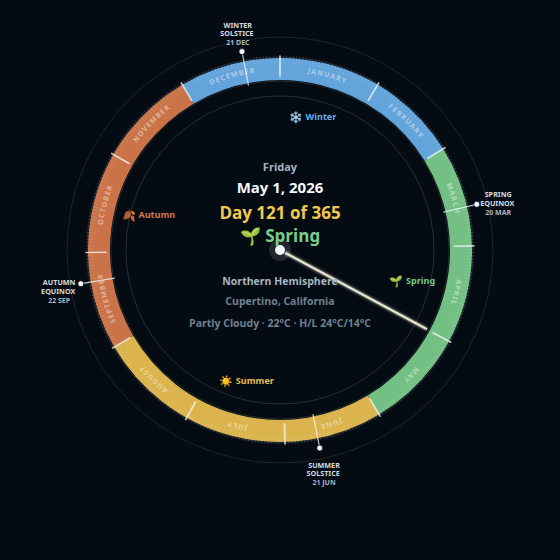
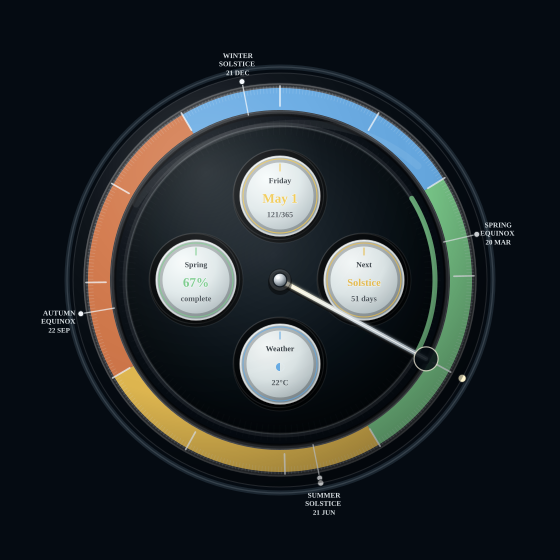
Prepare HACS release package

diff --git a/dist/season-clock-card.js b/dist/season-clock-card.js
@@ -9,7 +9,6 @@ var e = [
 	"show_month_names",
 	"show_month_markers",
 	"show_day_ticks",
-	"show_icons",
 	"show_moon_phase",
 	"show_weather"
 ], t = {
@@ -30,7 +29,6 @@ var e = [
 	show_month_names: !0,
 	show_month_markers: !0,
 	show_day_ticks: !0,
-	show_icons: !0,
 	show_moon_phase: !0,
 	show_weather: !0
 }, n = [
@@ -157,14 +155,13 @@ var e = [
 			show_month_names: "Month names",
 			show_month_markers: "Month markers",
 			show_day_ticks: "Day ticks",
-			show_icons: "Icons",
 			show_moon_phase: "Moon phase",
 			show_weather: "Weather",
 			weather_entity: "Weather entity"
 		}[e.name] || e.name?.replaceAll("_", " ") || "";
 	}
 };
-customElements.define("season-clock-card-editor", r);
+customElements.get("season-clock-card-editor") || customElements.define("season-clock-card-editor", r);
 //#endregion
 //#region src/styles.js
 var i = "\n  :host {\n    display: block;\n    --season-clock-card-size: min(var(--season-clock-size, 500px), 100%);\n    --season-clock-text: #f3f8fc;\n    --season-clock-muted: #a7b6c1;\n    --season-clock-subtle: #6f8190;\n    --clock-shadow-deep: rgba(0, 0, 0, 0.72);\n    --clock-shadow-soft: rgba(0, 0, 0, 0.36);\n    --clock-highlight: rgba(255, 255, 255, 0.22);\n    --clock-glass: rgba(255, 255, 255, 0.08);\n    --clock-rim: rgba(206, 220, 229, 0.42);\n  }\n\n  ha-card {\n    display: block;\n    overflow: hidden;\n    border-radius: var(--ha-card-border-radius, 8px);\n    background: transparent;\n    border: 0;\n    box-shadow: none;\n  }\n\n  .header {\n    display: flex;\n    align-items: center;\n    justify-content: space-between;\n    gap: 12px;\n    padding: 14px 16px 0;\n  }\n\n  .title {\n    color: var(--primary-text-color, var(--season-clock-text));\n    font-size: 15px;\n    font-weight: 700;\n    line-height: 1.2;\n  }\n\n  .wrap {\n    width: var(--season-clock-card-size);\n    max-width: 100%;\n    aspect-ratio: 1;\n    margin: 0 auto;\n    filter:\n      drop-shadow(0 24px 42px var(--clock-shadow-deep))\n      drop-shadow(0 0 22px rgba(105, 174, 232, 0.08));\n  }\n\n  .clock {\n    display: block;\n    width: 100%;\n    height: 100%;\n    color: var(--season-clock-text);\n    font-family: var(--paper-font-body1_-_font-family, ui-sans-serif, system-ui, -apple-system, BlinkMacSystemFont, \"Segoe UI\", sans-serif);\n  }\n\n  .clock-shadow {\n    fill: transparent;\n    stroke: rgba(236, 246, 252, 0.14);\n    stroke-width: 1.2;\n    filter: url(\"#dialInnerShadow\");\n  }\n\n  .outer-rim-glow {\n    fill: none;\n    stroke: rgba(145, 183, 210, 0.16);\n    stroke-width: 5;\n  }\n\n  .clock-face {\n    fill: url(\"#dialGradient\");\n    stroke: rgba(230, 241, 248, 0.16);\n    stroke-width: 1.2;\n  }\n\n  .dial-texture {\n    fill: none;\n    stroke: rgba(255, 255, 255, 0.035);\n    stroke-width: 16;\n    stroke-dasharray: 1 5;\n    opacity: 0.45;\n  }\n\n  .season-arc {\n    fill: none;\n    stroke-linecap: butt;\n    stroke-width: 22;\n    opacity: 0.97;\n    filter: url(\"#seasonLift\");\n  }\n\n  .ring-bevel {\n    fill: none;\n    stroke: rgba(0, 0, 0, 0.42);\n    stroke-width: 31;\n    filter: url(\"#seasonLift\");\n  }\n\n  .ring-inner-shadow,\n  .ring-outer-highlight {\n    fill: none;\n  }\n\n  .ring-inner-shadow {\n    stroke: rgba(0, 0, 0, 0.5);\n    stroke-width: 2.5;\n  }\n\n  .ring-outer-highlight {\n    stroke: rgba(255, 255, 255, 0.18);\n    stroke-width: 1.4;\n  }\n\n  .ring-guide {\n    fill: none;\n    stroke: rgba(218, 234, 244, 0.14);\n    stroke-width: 1;\n  }\n\n  .tick {\n    stroke: rgba(231, 241, 248, 0.18);\n    stroke-width: 0.7;\n    stroke-linecap: round;\n  }\n\n  .tick.month {\n    stroke: rgba(245, 249, 252, 0.76);\n    stroke-width: 1.7;\n  }\n\n  .month-names path {\n    fill: none;\n    stroke: none;\n  }\n\n  .month-name {\n    fill: rgba(255, 255, 255, 0.68);\n    font-size: 7.7px;\n    font-weight: 850;\n    letter-spacing: 1px;\n    text-anchor: middle;\n    dominant-baseline: middle;\n    pointer-events: none;\n    paint-order: stroke;\n    stroke: rgba(4, 12, 18, 0.52);\n    stroke-width: 1.8px;\n  }\n\n  .event-label,\n  .event-date {\n    text-anchor: middle;\n    dominant-baseline: middle;\n    letter-spacing: 0;\n  }\n\n  .event-line {\n    stroke: rgba(244, 248, 251, 0.72);\n    stroke-width: 1.3;\n    stroke-linecap: round;\n  }\n\n  .event-dot {\n    fill: #f7fbff;\n    stroke: rgba(4, 12, 18, 0.78);\n    stroke-width: 1;\n  }\n\n  .event-label {\n    fill: rgba(238, 245, 249, 0.9);\n    font-size: 7.2px;\n    font-weight: 760;\n    text-transform: uppercase;\n  }\n\n  .event-date {\n    fill: var(--season-clock-muted);\n    font-size: 7px;\n    font-weight: 650;\n  }\n\n  .progress-track {\n    fill: none;\n    stroke: rgba(255, 255, 255, 0.08);\n    stroke-width: 5;\n  }\n\n  .season-progress {\n    fill: none;\n    stroke-linecap: round;\n    stroke-width: 5;\n    opacity: 0.78;\n  }\n\n  .today-dot {\n    fill: #fff6cf;\n    stroke: rgba(5, 12, 18, 0.82);\n    stroke-width: 1.3;\n  }\n\n  .next-event-dot {\n    fill: rgba(255, 255, 255, 0.72);\n    stroke: rgba(5, 12, 18, 0.72);\n    stroke-width: 1;\n  }\n\n  .hand-shadow {\n    stroke: rgba(0, 0, 0, 0.68);\n    stroke-width: 6.4;\n    stroke-linecap: round;\n    filter: blur(0.25px);\n  }\n\n  .hand {\n    stroke: url(\"#handMetal\");\n    stroke-width: 4.1;\n    stroke-linecap: round;\n    filter: url(\"#handGlow\");\n  }\n\n  .hand-highlight {\n    stroke: rgba(255, 255, 255, 0.74);\n    stroke-width: 1.05;\n    stroke-linecap: round;\n  }\n\n  .moon-phase {\n    pointer-events: none;\n  }\n\n  .moon-badge {\n    fill: rgba(5, 12, 18, 0.84);\n    stroke: rgba(255, 250, 229, 0.72);\n    stroke-width: 1.2;\n  }\n\n  .moon-icon {\n    font-size: 14px;\n    text-anchor: middle;\n    dominant-baseline: middle;\n    alignment-baseline: central;\n  }\n\n  .pivot-halo {\n    fill: rgba(255, 255, 255, 0.14);\n    stroke: rgba(0, 0, 0, 0.38);\n    stroke-width: 1;\n  }\n\n  .pivot-shadow {\n    fill: rgba(0, 0, 0, 0.42);\n  }\n\n  .pivot {\n    fill: url(\"#pivotMetal\");\n    stroke: rgba(5, 12, 18, 0.78);\n    stroke-width: 1.2;\n  }\n\n  .pivot-highlight {\n    fill: rgba(255, 255, 255, 0.7);\n  }\n\n  .center-readout {\n    text-anchor: middle;\n    dominant-baseline: middle;\n  }\n\n  .complication {\n    pointer-events: none;\n  }\n\n  .complication-socket {\n    fill: rgba(0, 0, 0, 0.68);\n    stroke: rgba(255, 255, 255, 0.08);\n    stroke-width: 1;\n  }\n\n  .complication-socket-highlight {\n    fill: none;\n    stroke: rgba(255, 255, 255, 0.1);\n    stroke-width: 1.1;\n  }\n\n  .complication-shadow {\n    fill: rgba(0, 0, 0, 0.36);\n  }\n\n  .complication-face {\n    fill: url(\"#complicationFaceGradient\");\n    stroke: rgba(255, 255, 255, 0.62);\n    stroke-width: 1.1;\n    filter: url(\"#complicationInset\");\n  }\n\n  .complication-inner-shadow {\n    fill: none;\n    stroke: rgba(2, 8, 12, 0.24);\n    stroke-width: 5;\n  }\n\n  .complication-ring {\n    fill: none;\n    stroke-width: 1.15;\n    opacity: 0.76;\n  }\n\n  .complication-marker {\n    stroke-width: 1.2;\n    stroke-linecap: round;\n    opacity: 0.9;\n  }\n\n  .complication-title,\n  .complication-primary,\n  .complication-secondary {\n    text-anchor: middle;\n    dominant-baseline: middle;\n    letter-spacing: 0;\n  }\n\n  .complication-title {\n    fill: rgba(10, 20, 28, 0.8);\n    font-size: 7.8px;\n    font-weight: 820;\n    text-transform: uppercase;\n  }\n\n  .complication-primary {\n    font-size: 12.8px;\n    font-weight: 900;\n    paint-order: stroke;\n    stroke: rgba(239, 245, 246, 0.95);\n    stroke-width: 1px;\n  }\n\n  .complication-secondary {\n    fill: rgba(10, 20, 28, 0.68);\n    font-size: 8px;\n    font-weight: 720;\n  }\n\n  .emboss-shadow {\n    fill: rgba(255, 255, 255, 0.58);\n    stroke: none;\n  }\n\n  .place-complication .complication-primary,\n  .event-complication .complication-primary {\n    font-size: 10.4px;\n  }\n\n  .weather-complication .complication-primary {\n    font-size: 19px;\n    stroke-width: 0.7px;\n  }\n\n  .date-complication .complication-primary,\n  .season-complication .complication-primary {\n    font-size: 13.1px;\n  }\n\n  .clock-glass {\n    fill: url(\"#glassGradient\");\n    stroke: rgba(255, 255, 255, 0.12);\n    stroke-width: 1;\n    pointer-events: none;\n  }\n\n  .glass-sheen {\n    fill: none;\n    stroke: rgba(255, 255, 255, 0.16);\n    stroke-width: 7;\n    stroke-linecap: round;\n    opacity: 0.42;\n    pointer-events: none;\n  }\n", a = {
@@ -871,7 +868,7 @@ var S = {
 		return String(e).replaceAll("&", "&amp;").replaceAll("<", "&lt;").replaceAll(">", "&gt;").replaceAll("\"", "&quot;");
 	}
 };
-customElements.define("season-clock-card", E), window.customCards = window.customCards || [], window.customCards.push({
+customElements.get("season-clock-card") || customElements.define("season-clock-card", E), window.customCards = Array.isArray(window.customCards) ? window.customCards : [], window.customCards.some((e) => e?.type === "season-clock-card") || window.customCards.push({
 	type: "season-clock-card",
 	name: "Season Clock Card",
 	description: "A location-aware seasonal year clock for Home Assistant dashboards."

diff --git a/dist/seasonclock.js b/dist/seasonclock.js
@@ -9,7 +9,6 @@ var e = [
 	"show_month_names",
 	"show_month_markers",
 	"show_day_ticks",
-	"show_icons",
 	"show_moon_phase",
 	"show_weather"
 ], t = {
@@ -30,7 +29,6 @@ var e = [
 	show_month_names: !0,
 	show_month_markers: !0,
 	show_day_ticks: !0,
-	show_icons: !0,
 	show_moon_phase: !0,
 	show_weather: !0
 }, n = [
@@ -157,14 +155,13 @@ var e = [
 			show_month_names: "Month names",
 			show_month_markers: "Month markers",
 			show_day_ticks: "Day ticks",
-			show_icons: "Icons",
 			show_moon_phase: "Moon phase",
 			show_weather: "Weather",
 			weather_entity: "Weather entity"
 		}[e.name] || e.name?.replaceAll("_", " ") || "";
 	}
 };
-customElements.define("season-clock-card-editor", r);
+customElements.get("season-clock-card-editor") || customElements.define("season-clock-card-editor", r);
 //#endregion
 //#region src/styles.js
 var i = "\n  :host {\n    display: block;\n    --season-clock-card-size: min(var(--season-clock-size, 500px), 100%);\n    --season-clock-text: #f3f8fc;\n    --season-clock-muted: #a7b6c1;\n    --season-clock-subtle: #6f8190;\n    --clock-shadow-deep: rgba(0, 0, 0, 0.72);\n    --clock-shadow-soft: rgba(0, 0, 0, 0.36);\n    --clock-highlight: rgba(255, 255, 255, 0.22);\n    --clock-glass: rgba(255, 255, 255, 0.08);\n    --clock-rim: rgba(206, 220, 229, 0.42);\n  }\n\n  ha-card {\n    display: block;\n    overflow: hidden;\n    border-radius: var(--ha-card-border-radius, 8px);\n    background: transparent;\n    border: 0;\n    box-shadow: none;\n  }\n\n  .header {\n    display: flex;\n    align-items: center;\n    justify-content: space-between;\n    gap: 12px;\n    padding: 14px 16px 0;\n  }\n\n  .title {\n    color: var(--primary-text-color, var(--season-clock-text));\n    font-size: 15px;\n    font-weight: 700;\n    line-height: 1.2;\n  }\n\n  .wrap {\n    width: var(--season-clock-card-size);\n    max-width: 100%;\n    aspect-ratio: 1;\n    margin: 0 auto;\n    filter:\n      drop-shadow(0 24px 42px var(--clock-shadow-deep))\n      drop-shadow(0 0 22px rgba(105, 174, 232, 0.08));\n  }\n\n  .clock {\n    display: block;\n    width: 100%;\n    height: 100%;\n    color: var(--season-clock-text);\n    font-family: var(--paper-font-body1_-_font-family, ui-sans-serif, system-ui, -apple-system, BlinkMacSystemFont, \"Segoe UI\", sans-serif);\n  }\n\n  .clock-shadow {\n    fill: transparent;\n    stroke: rgba(236, 246, 252, 0.14);\n    stroke-width: 1.2;\n    filter: url(\"#dialInnerShadow\");\n  }\n\n  .outer-rim-glow {\n    fill: none;\n    stroke: rgba(145, 183, 210, 0.16);\n    stroke-width: 5;\n  }\n\n  .clock-face {\n    fill: url(\"#dialGradient\");\n    stroke: rgba(230, 241, 248, 0.16);\n    stroke-width: 1.2;\n  }\n\n  .dial-texture {\n    fill: none;\n    stroke: rgba(255, 255, 255, 0.035);\n    stroke-width: 16;\n    stroke-dasharray: 1 5;\n    opacity: 0.45;\n  }\n\n  .season-arc {\n    fill: none;\n    stroke-linecap: butt;\n    stroke-width: 22;\n    opacity: 0.97;\n    filter: url(\"#seasonLift\");\n  }\n\n  .ring-bevel {\n    fill: none;\n    stroke: rgba(0, 0, 0, 0.42);\n    stroke-width: 31;\n    filter: url(\"#seasonLift\");\n  }\n\n  .ring-inner-shadow,\n  .ring-outer-highlight {\n    fill: none;\n  }\n\n  .ring-inner-shadow {\n    stroke: rgba(0, 0, 0, 0.5);\n    stroke-width: 2.5;\n  }\n\n  .ring-outer-highlight {\n    stroke: rgba(255, 255, 255, 0.18);\n    stroke-width: 1.4;\n  }\n\n  .ring-guide {\n    fill: none;\n    stroke: rgba(218, 234, 244, 0.14);\n    stroke-width: 1;\n  }\n\n  .tick {\n    stroke: rgba(231, 241, 248, 0.18);\n    stroke-width: 0.7;\n    stroke-linecap: round;\n  }\n\n  .tick.month {\n    stroke: rgba(245, 249, 252, 0.76);\n    stroke-width: 1.7;\n  }\n\n  .month-names path {\n    fill: none;\n    stroke: none;\n  }\n\n  .month-name {\n    fill: rgba(255, 255, 255, 0.68);\n    font-size: 7.7px;\n    font-weight: 850;\n    letter-spacing: 1px;\n    text-anchor: middle;\n    dominant-baseline: middle;\n    pointer-events: none;\n    paint-order: stroke;\n    stroke: rgba(4, 12, 18, 0.52);\n    stroke-width: 1.8px;\n  }\n\n  .event-label,\n  .event-date {\n    text-anchor: middle;\n    dominant-baseline: middle;\n    letter-spacing: 0;\n  }\n\n  .event-line {\n    stroke: rgba(244, 248, 251, 0.72);\n    stroke-width: 1.3;\n    stroke-linecap: round;\n  }\n\n  .event-dot {\n    fill: #f7fbff;\n    stroke: rgba(4, 12, 18, 0.78);\n    stroke-width: 1;\n  }\n\n  .event-label {\n    fill: rgba(238, 245, 249, 0.9);\n    font-size: 7.2px;\n    font-weight: 760;\n    text-transform: uppercase;\n  }\n\n  .event-date {\n    fill: var(--season-clock-muted);\n    font-size: 7px;\n    font-weight: 650;\n  }\n\n  .progress-track {\n    fill: none;\n    stroke: rgba(255, 255, 255, 0.08);\n    stroke-width: 5;\n  }\n\n  .season-progress {\n    fill: none;\n    stroke-linecap: round;\n    stroke-width: 5;\n    opacity: 0.78;\n  }\n\n  .today-dot {\n    fill: #fff6cf;\n    stroke: rgba(5, 12, 18, 0.82);\n    stroke-width: 1.3;\n  }\n\n  .next-event-dot {\n    fill: rgba(255, 255, 255, 0.72);\n    stroke: rgba(5, 12, 18, 0.72);\n    stroke-width: 1;\n  }\n\n  .hand-shadow {\n    stroke: rgba(0, 0, 0, 0.68);\n    stroke-width: 6.4;\n    stroke-linecap: round;\n    filter: blur(0.25px);\n  }\n\n  .hand {\n    stroke: url(\"#handMetal\");\n    stroke-width: 4.1;\n    stroke-linecap: round;\n    filter: url(\"#handGlow\");\n  }\n\n  .hand-highlight {\n    stroke: rgba(255, 255, 255, 0.74);\n    stroke-width: 1.05;\n    stroke-linecap: round;\n  }\n\n  .moon-phase {\n    pointer-events: none;\n  }\n\n  .moon-badge {\n    fill: rgba(5, 12, 18, 0.84);\n    stroke: rgba(255, 250, 229, 0.72);\n    stroke-width: 1.2;\n  }\n\n  .moon-icon {\n    font-size: 14px;\n    text-anchor: middle;\n    dominant-baseline: middle;\n    alignment-baseline: central;\n  }\n\n  .pivot-halo {\n    fill: rgba(255, 255, 255, 0.14);\n    stroke: rgba(0, 0, 0, 0.38);\n    stroke-width: 1;\n  }\n\n  .pivot-shadow {\n    fill: rgba(0, 0, 0, 0.42);\n  }\n\n  .pivot {\n    fill: url(\"#pivotMetal\");\n    stroke: rgba(5, 12, 18, 0.78);\n    stroke-width: 1.2;\n  }\n\n  .pivot-highlight {\n    fill: rgba(255, 255, 255, 0.7);\n  }\n\n  .center-readout {\n    text-anchor: middle;\n    dominant-baseline: middle;\n  }\n\n  .complication {\n    pointer-events: none;\n  }\n\n  .complication-socket {\n    fill: rgba(0, 0, 0, 0.68);\n    stroke: rgba(255, 255, 255, 0.08);\n    stroke-width: 1;\n  }\n\n  .complication-socket-highlight {\n    fill: none;\n    stroke: rgba(255, 255, 255, 0.1);\n    stroke-width: 1.1;\n  }\n\n  .complication-shadow {\n    fill: rgba(0, 0, 0, 0.36);\n  }\n\n  .complication-face {\n    fill: url(\"#complicationFaceGradient\");\n    stroke: rgba(255, 255, 255, 0.62);\n    stroke-width: 1.1;\n    filter: url(\"#complicationInset\");\n  }\n\n  .complication-inner-shadow {\n    fill: none;\n    stroke: rgba(2, 8, 12, 0.24);\n    stroke-width: 5;\n  }\n\n  .complication-ring {\n    fill: none;\n    stroke-width: 1.15;\n    opacity: 0.76;\n  }\n\n  .complication-marker {\n    stroke-width: 1.2;\n    stroke-linecap: round;\n    opacity: 0.9;\n  }\n\n  .complication-title,\n  .complication-primary,\n  .complication-secondary {\n    text-anchor: middle;\n    dominant-baseline: middle;\n    letter-spacing: 0;\n  }\n\n  .complication-title {\n    fill: rgba(10, 20, 28, 0.8);\n    font-size: 7.8px;\n    font-weight: 820;\n    text-transform: uppercase;\n  }\n\n  .complication-primary {\n    font-size: 12.8px;\n    font-weight: 900;\n    paint-order: stroke;\n    stroke: rgba(239, 245, 246, 0.95);\n    stroke-width: 1px;\n  }\n\n  .complication-secondary {\n    fill: rgba(10, 20, 28, 0.68);\n    font-size: 8px;\n    font-weight: 720;\n  }\n\n  .emboss-shadow {\n    fill: rgba(255, 255, 255, 0.58);\n    stroke: none;\n  }\n\n  .place-complication .complication-primary,\n  .event-complication .complication-primary {\n    font-size: 10.4px;\n  }\n\n  .weather-complication .complication-primary {\n    font-size: 19px;\n    stroke-width: 0.7px;\n  }\n\n  .date-complication .complication-primary,\n  .season-complication .complication-primary {\n    font-size: 13.1px;\n  }\n\n  .clock-glass {\n    fill: url(\"#glassGradient\");\n    stroke: rgba(255, 255, 255, 0.12);\n    stroke-width: 1;\n    pointer-events: none;\n  }\n\n  .glass-sheen {\n    fill: none;\n    stroke: rgba(255, 255, 255, 0.16);\n    stroke-width: 7;\n    stroke-linecap: round;\n    opacity: 0.42;\n    pointer-events: none;\n  }\n", a = {
@@ -871,7 +868,7 @@ var S = {
 		return String(e).replaceAll("&", "&amp;").replaceAll("<", "&lt;").replaceAll(">", "&gt;").replaceAll("\"", "&quot;");
 	}
 };
-customElements.define("season-clock-card", E), window.customCards = window.customCards || [], window.customCards.push({
+customElements.get("season-clock-card") || customElements.define("season-clock-card", E), window.customCards = Array.isArray(window.customCards) ? window.customCards : [], window.customCards.some((e) => e?.type === "season-clock-card") || window.customCards.push({
 	type: "season-clock-card",
 	name: "Season Clock Card",
 	description: "A location-aware seasonal year clock for Home Assistant dashboards."

diff --git a/season-clock-card.js b/season-clock-card.js
@@ -9,7 +9,6 @@ var e = [
 	"show_month_names",
 	"show_month_markers",
 	"show_day_ticks",
-	"show_icons",
 	"show_moon_phase",
 	"show_weather"
 ], t = {
@@ -30,7 +29,6 @@ var e = [
 	show_month_names: !0,
 	show_month_markers: !0,
 	show_day_ticks: !0,
-	show_icons: !0,
 	show_moon_phase: !0,
 	show_weather: !0
 }, n = [
@@ -157,14 +155,13 @@ var e = [
 			show_month_names: "Month names",
 			show_month_markers: "Month markers",
 			show_day_ticks: "Day ticks",
-			show_icons: "Icons",
 			show_moon_phase: "Moon phase",
 			show_weather: "Weather",
 			weather_entity: "Weather entity"
 		}[e.name] || e.name?.replaceAll("_", " ") || "";
 	}
 };
-customElements.define("season-clock-card-editor", r);
+customElements.get("season-clock-card-editor") || customElements.define("season-clock-card-editor", r);
 //#endregion
 //#region src/styles.js
 var i = "\n  :host {\n    display: block;\n    --season-clock-card-size: min(var(--season-clock-size, 500px), 100%);\n    --season-clock-text: #f3f8fc;\n    --season-clock-muted: #a7b6c1;\n    --season-clock-subtle: #6f8190;\n    --clock-shadow-deep: rgba(0, 0, 0, 0.72);\n    --clock-shadow-soft: rgba(0, 0, 0, 0.36);\n    --clock-highlight: rgba(255, 255, 255, 0.22);\n    --clock-glass: rgba(255, 255, 255, 0.08);\n    --clock-rim: rgba(206, 220, 229, 0.42);\n  }\n\n  ha-card {\n    display: block;\n    overflow: hidden;\n    border-radius: var(--ha-card-border-radius, 8px);\n    background: transparent;\n    border: 0;\n    box-shadow: none;\n  }\n\n  .header {\n    display: flex;\n    align-items: center;\n    justify-content: space-between;\n    gap: 12px;\n    padding: 14px 16px 0;\n  }\n\n  .title {\n    color: var(--primary-text-color, var(--season-clock-text));\n    font-size: 15px;\n    font-weight: 700;\n    line-height: 1.2;\n  }\n\n  .wrap {\n    width: var(--season-clock-card-size);\n    max-width: 100%;\n    aspect-ratio: 1;\n    margin: 0 auto;\n    filter:\n      drop-shadow(0 24px 42px var(--clock-shadow-deep))\n      drop-shadow(0 0 22px rgba(105, 174, 232, 0.08));\n  }\n\n  .clock {\n    display: block;\n    width: 100%;\n    height: 100%;\n    color: var(--season-clock-text);\n    font-family: var(--paper-font-body1_-_font-family, ui-sans-serif, system-ui, -apple-system, BlinkMacSystemFont, \"Segoe UI\", sans-serif);\n  }\n\n  .clock-shadow {\n    fill: transparent;\n    stroke: rgba(236, 246, 252, 0.14);\n    stroke-width: 1.2;\n    filter: url(\"#dialInnerShadow\");\n  }\n\n  .outer-rim-glow {\n    fill: none;\n    stroke: rgba(145, 183, 210, 0.16);\n    stroke-width: 5;\n  }\n\n  .clock-face {\n    fill: url(\"#dialGradient\");\n    stroke: rgba(230, 241, 248, 0.16);\n    stroke-width: 1.2;\n  }\n\n  .dial-texture {\n    fill: none;\n    stroke: rgba(255, 255, 255, 0.035);\n    stroke-width: 16;\n    stroke-dasharray: 1 5;\n    opacity: 0.45;\n  }\n\n  .season-arc {\n    fill: none;\n    stroke-linecap: butt;\n    stroke-width: 22;\n    opacity: 0.97;\n    filter: url(\"#seasonLift\");\n  }\n\n  .ring-bevel {\n    fill: none;\n    stroke: rgba(0, 0, 0, 0.42);\n    stroke-width: 31;\n    filter: url(\"#seasonLift\");\n  }\n\n  .ring-inner-shadow,\n  .ring-outer-highlight {\n    fill: none;\n  }\n\n  .ring-inner-shadow {\n    stroke: rgba(0, 0, 0, 0.5);\n    stroke-width: 2.5;\n  }\n\n  .ring-outer-highlight {\n    stroke: rgba(255, 255, 255, 0.18);\n    stroke-width: 1.4;\n  }\n\n  .ring-guide {\n    fill: none;\n    stroke: rgba(218, 234, 244, 0.14);\n    stroke-width: 1;\n  }\n\n  .tick {\n    stroke: rgba(231, 241, 248, 0.18);\n    stroke-width: 0.7;\n    stroke-linecap: round;\n  }\n\n  .tick.month {\n    stroke: rgba(245, 249, 252, 0.76);\n    stroke-width: 1.7;\n  }\n\n  .month-names path {\n    fill: none;\n    stroke: none;\n  }\n\n  .month-name {\n    fill: rgba(255, 255, 255, 0.68);\n    font-size: 7.7px;\n    font-weight: 850;\n    letter-spacing: 1px;\n    text-anchor: middle;\n    dominant-baseline: middle;\n    pointer-events: none;\n    paint-order: stroke;\n    stroke: rgba(4, 12, 18, 0.52);\n    stroke-width: 1.8px;\n  }\n\n  .event-label,\n  .event-date {\n    text-anchor: middle;\n    dominant-baseline: middle;\n    letter-spacing: 0;\n  }\n\n  .event-line {\n    stroke: rgba(244, 248, 251, 0.72);\n    stroke-width: 1.3;\n    stroke-linecap: round;\n  }\n\n  .event-dot {\n    fill: #f7fbff;\n    stroke: rgba(4, 12, 18, 0.78);\n    stroke-width: 1;\n  }\n\n  .event-label {\n    fill: rgba(238, 245, 249, 0.9);\n    font-size: 7.2px;\n    font-weight: 760;\n    text-transform: uppercase;\n  }\n\n  .event-date {\n    fill: var(--season-clock-muted);\n    font-size: 7px;\n    font-weight: 650;\n  }\n\n  .progress-track {\n    fill: none;\n    stroke: rgba(255, 255, 255, 0.08);\n    stroke-width: 5;\n  }\n\n  .season-progress {\n    fill: none;\n    stroke-linecap: round;\n    stroke-width: 5;\n    opacity: 0.78;\n  }\n\n  .today-dot {\n    fill: #fff6cf;\n    stroke: rgba(5, 12, 18, 0.82);\n    stroke-width: 1.3;\n  }\n\n  .next-event-dot {\n    fill: rgba(255, 255, 255, 0.72);\n    stroke: rgba(5, 12, 18, 0.72);\n    stroke-width: 1;\n  }\n\n  .hand-shadow {\n    stroke: rgba(0, 0, 0, 0.68);\n    stroke-width: 6.4;\n    stroke-linecap: round;\n    filter: blur(0.25px);\n  }\n\n  .hand {\n    stroke: url(\"#handMetal\");\n    stroke-width: 4.1;\n    stroke-linecap: round;\n    filter: url(\"#handGlow\");\n  }\n\n  .hand-highlight {\n    stroke: rgba(255, 255, 255, 0.74);\n    stroke-width: 1.05;\n    stroke-linecap: round;\n  }\n\n  .moon-phase {\n    pointer-events: none;\n  }\n\n  .moon-badge {\n    fill: rgba(5, 12, 18, 0.84);\n    stroke: rgba(255, 250, 229, 0.72);\n    stroke-width: 1.2;\n  }\n\n  .moon-icon {\n    font-size: 14px;\n    text-anchor: middle;\n    dominant-baseline: middle;\n    alignment-baseline: central;\n  }\n\n  .pivot-halo {\n    fill: rgba(255, 255, 255, 0.14);\n    stroke: rgba(0, 0, 0, 0.38);\n    stroke-width: 1;\n  }\n\n  .pivot-shadow {\n    fill: rgba(0, 0, 0, 0.42);\n  }\n\n  .pivot {\n    fill: url(\"#pivotMetal\");\n    stroke: rgba(5, 12, 18, 0.78);\n    stroke-width: 1.2;\n  }\n\n  .pivot-highlight {\n    fill: rgba(255, 255, 255, 0.7);\n  }\n\n  .center-readout {\n    text-anchor: middle;\n    dominant-baseline: middle;\n  }\n\n  .complication {\n    pointer-events: none;\n  }\n\n  .complication-socket {\n    fill: rgba(0, 0, 0, 0.68);\n    stroke: rgba(255, 255, 255, 0.08);\n    stroke-width: 1;\n  }\n\n  .complication-socket-highlight {\n    fill: none;\n    stroke: rgba(255, 255, 255, 0.1);\n    stroke-width: 1.1;\n  }\n\n  .complication-shadow {\n    fill: rgba(0, 0, 0, 0.36);\n  }\n\n  .complication-face {\n    fill: url(\"#complicationFaceGradient\");\n    stroke: rgba(255, 255, 255, 0.62);\n    stroke-width: 1.1;\n    filter: url(\"#complicationInset\");\n  }\n\n  .complication-inner-shadow {\n    fill: none;\n    stroke: rgba(2, 8, 12, 0.24);\n    stroke-width: 5;\n  }\n\n  .complication-ring {\n    fill: none;\n    stroke-width: 1.15;\n    opacity: 0.76;\n  }\n\n  .complication-marker {\n    stroke-width: 1.2;\n    stroke-linecap: round;\n    opacity: 0.9;\n  }\n\n  .complication-title,\n  .complication-primary,\n  .complication-secondary {\n    text-anchor: middle;\n    dominant-baseline: middle;\n    letter-spacing: 0;\n  }\n\n  .complication-title {\n    fill: rgba(10, 20, 28, 0.8);\n    font-size: 7.8px;\n    font-weight: 820;\n    text-transform: uppercase;\n  }\n\n  .complication-primary {\n    font-size: 12.8px;\n    font-weight: 900;\n    paint-order: stroke;\n    stroke: rgba(239, 245, 246, 0.95);\n    stroke-width: 1px;\n  }\n\n  .complication-secondary {\n    fill: rgba(10, 20, 28, 0.68);\n    font-size: 8px;\n    font-weight: 720;\n  }\n\n  .emboss-shadow {\n    fill: rgba(255, 255, 255, 0.58);\n    stroke: none;\n  }\n\n  .place-complication .complication-primary,\n  .event-complication .complication-primary {\n    font-size: 10.4px;\n  }\n\n  .weather-complication .complication-primary {\n    font-size: 19px;\n    stroke-width: 0.7px;\n  }\n\n  .date-complication .complication-primary,\n  .season-complication .complication-primary {\n    font-size: 13.1px;\n  }\n\n  .clock-glass {\n    fill: url(\"#glassGradient\");\n    stroke: rgba(255, 255, 255, 0.12);\n    stroke-width: 1;\n    pointer-events: none;\n  }\n\n  .glass-sheen {\n    fill: none;\n    stroke: rgba(255, 255, 255, 0.16);\n    stroke-width: 7;\n    stroke-linecap: round;\n    opacity: 0.42;\n    pointer-events: none;\n  }\n", a = {
@@ -871,7 +868,7 @@ var S = {
 		return String(e).replaceAll("&", "&amp;").replaceAll("<", "&lt;").replaceAll(">", "&gt;").replaceAll("\"", "&quot;");
 	}
 };
-customElements.define("season-clock-card", E), window.customCards = window.customCards || [], window.customCards.push({
+customElements.get("season-clock-card") || customElements.define("season-clock-card", E), window.customCards = Array.isArray(window.customCards) ? window.customCards : [], window.customCards.some((e) => e?.type === "season-clock-card") || window.customCards.push({
 	type: "season-clock-card",
 	name: "Season Clock Card",
 	description: "A location-aware seasonal year clock for Home Assistant dashboards."

diff --git a/seasonclock.js b/seasonclock.js
@@ -9,7 +9,6 @@ var e = [
 	"show_month_names",
 	"show_month_markers",
 	"show_day_ticks",
-	"show_icons",
 	"show_moon_phase",
 	"show_weather"
 ], t = {
@@ -30,7 +29,6 @@ var e = [
 	show_month_names: !0,
 	show_month_markers: !0,
 	show_day_ticks: !0,
-	show_icons: !0,
 	show_moon_phase: !0,
 	show_weather: !0
 }, n = [
@@ -157,14 +155,13 @@ var e = [
 			show_month_names: "Month names",
 			show_month_markers: "Month markers",
 			show_day_ticks: "Day ticks",
-			show_icons: "Icons",
 			show_moon_phase: "Moon phase",
 			show_weather: "Weather",
 			weather_entity: "Weather entity"
 		}[e.name] || e.name?.replaceAll("_", " ") || "";
 	}
 };
-customElements.define("season-clock-card-editor", r);
+customElements.get("season-clock-card-editor") || customElements.define("season-clock-card-editor", r);
 //#endregion
 //#region src/styles.js
 var i = "\n  :host {\n    display: block;\n    --season-clock-card-size: min(var(--season-clock-size, 500px), 100%);\n    --season-clock-text: #f3f8fc;\n    --season-clock-muted: #a7b6c1;\n    --season-clock-subtle: #6f8190;\n    --clock-shadow-deep: rgba(0, 0, 0, 0.72);\n    --clock-shadow-soft: rgba(0, 0, 0, 0.36);\n    --clock-highlight: rgba(255, 255, 255, 0.22);\n    --clock-glass: rgba(255, 255, 255, 0.08);\n    --clock-rim: rgba(206, 220, 229, 0.42);\n  }\n\n  ha-card {\n    display: block;\n    overflow: hidden;\n    border-radius: var(--ha-card-border-radius, 8px);\n    background: transparent;\n    border: 0;\n    box-shadow: none;\n  }\n\n  .header {\n    display: flex;\n    align-items: center;\n    justify-content: space-between;\n    gap: 12px;\n    padding: 14px 16px 0;\n  }\n\n  .title {\n    color: var(--primary-text-color, var(--season-clock-text));\n    font-size: 15px;\n    font-weight: 700;\n    line-height: 1.2;\n  }\n\n  .wrap {\n    width: var(--season-clock-card-size);\n    max-width: 100%;\n    aspect-ratio: 1;\n    margin: 0 auto;\n    filter:\n      drop-shadow(0 24px 42px var(--clock-shadow-deep))\n      drop-shadow(0 0 22px rgba(105, 174, 232, 0.08));\n  }\n\n  .clock {\n    display: block;\n    width: 100%;\n    height: 100%;\n    color: var(--season-clock-text);\n    font-family: var(--paper-font-body1_-_font-family, ui-sans-serif, system-ui, -apple-system, BlinkMacSystemFont, \"Segoe UI\", sans-serif);\n  }\n\n  .clock-shadow {\n    fill: transparent;\n    stroke: rgba(236, 246, 252, 0.14);\n    stroke-width: 1.2;\n    filter: url(\"#dialInnerShadow\");\n  }\n\n  .outer-rim-glow {\n    fill: none;\n    stroke: rgba(145, 183, 210, 0.16);\n    stroke-width: 5;\n  }\n\n  .clock-face {\n    fill: url(\"#dialGradient\");\n    stroke: rgba(230, 241, 248, 0.16);\n    stroke-width: 1.2;\n  }\n\n  .dial-texture {\n    fill: none;\n    stroke: rgba(255, 255, 255, 0.035);\n    stroke-width: 16;\n    stroke-dasharray: 1 5;\n    opacity: 0.45;\n  }\n\n  .season-arc {\n    fill: none;\n    stroke-linecap: butt;\n    stroke-width: 22;\n    opacity: 0.97;\n    filter: url(\"#seasonLift\");\n  }\n\n  .ring-bevel {\n    fill: none;\n    stroke: rgba(0, 0, 0, 0.42);\n    stroke-width: 31;\n    filter: url(\"#seasonLift\");\n  }\n\n  .ring-inner-shadow,\n  .ring-outer-highlight {\n    fill: none;\n  }\n\n  .ring-inner-shadow {\n    stroke: rgba(0, 0, 0, 0.5);\n    stroke-width: 2.5;\n  }\n\n  .ring-outer-highlight {\n    stroke: rgba(255, 255, 255, 0.18);\n    stroke-width: 1.4;\n  }\n\n  .ring-guide {\n    fill: none;\n    stroke: rgba(218, 234, 244, 0.14);\n    stroke-width: 1;\n  }\n\n  .tick {\n    stroke: rgba(231, 241, 248, 0.18);\n    stroke-width: 0.7;\n    stroke-linecap: round;\n  }\n\n  .tick.month {\n    stroke: rgba(245, 249, 252, 0.76);\n    stroke-width: 1.7;\n  }\n\n  .month-names path {\n    fill: none;\n    stroke: none;\n  }\n\n  .month-name {\n    fill: rgba(255, 255, 255, 0.68);\n    font-size: 7.7px;\n    font-weight: 850;\n    letter-spacing: 1px;\n    text-anchor: middle;\n    dominant-baseline: middle;\n    pointer-events: none;\n    paint-order: stroke;\n    stroke: rgba(4, 12, 18, 0.52);\n    stroke-width: 1.8px;\n  }\n\n  .event-label,\n  .event-date {\n    text-anchor: middle;\n    dominant-baseline: middle;\n    letter-spacing: 0;\n  }\n\n  .event-line {\n    stroke: rgba(244, 248, 251, 0.72);\n    stroke-width: 1.3;\n    stroke-linecap: round;\n  }\n\n  .event-dot {\n    fill: #f7fbff;\n    stroke: rgba(4, 12, 18, 0.78);\n    stroke-width: 1;\n  }\n\n  .event-label {\n    fill: rgba(238, 245, 249, 0.9);\n    font-size: 7.2px;\n    font-weight: 760;\n    text-transform: uppercase;\n  }\n\n  .event-date {\n    fill: var(--season-clock-muted);\n    font-size: 7px;\n    font-weight: 650;\n  }\n\n  .progress-track {\n    fill: none;\n    stroke: rgba(255, 255, 255, 0.08);\n    stroke-width: 5;\n  }\n\n  .season-progress {\n    fill: none;\n    stroke-linecap: round;\n    stroke-width: 5;\n    opacity: 0.78;\n  }\n\n  .today-dot {\n    fill: #fff6cf;\n    stroke: rgba(5, 12, 18, 0.82);\n    stroke-width: 1.3;\n  }\n\n  .next-event-dot {\n    fill: rgba(255, 255, 255, 0.72);\n    stroke: rgba(5, 12, 18, 0.72);\n    stroke-width: 1;\n  }\n\n  .hand-shadow {\n    stroke: rgba(0, 0, 0, 0.68);\n    stroke-width: 6.4;\n    stroke-linecap: round;\n    filter: blur(0.25px);\n  }\n\n  .hand {\n    stroke: url(\"#handMetal\");\n    stroke-width: 4.1;\n    stroke-linecap: round;\n    filter: url(\"#handGlow\");\n  }\n\n  .hand-highlight {\n    stroke: rgba(255, 255, 255, 0.74);\n    stroke-width: 1.05;\n    stroke-linecap: round;\n  }\n\n  .moon-phase {\n    pointer-events: none;\n  }\n\n  .moon-badge {\n    fill: rgba(5, 12, 18, 0.84);\n    stroke: rgba(255, 250, 229, 0.72);\n    stroke-width: 1.2;\n  }\n\n  .moon-icon {\n    font-size: 14px;\n    text-anchor: middle;\n    dominant-baseline: middle;\n    alignment-baseline: central;\n  }\n\n  .pivot-halo {\n    fill: rgba(255, 255, 255, 0.14);\n    stroke: rgba(0, 0, 0, 0.38);\n    stroke-width: 1;\n  }\n\n  .pivot-shadow {\n    fill: rgba(0, 0, 0, 0.42);\n  }\n\n  .pivot {\n    fill: url(\"#pivotMetal\");\n    stroke: rgba(5, 12, 18, 0.78);\n    stroke-width: 1.2;\n  }\n\n  .pivot-highlight {\n    fill: rgba(255, 255, 255, 0.7);\n  }\n\n  .center-readout {\n    text-anchor: middle;\n    dominant-baseline: middle;\n  }\n\n  .complication {\n    pointer-events: none;\n  }\n\n  .complication-socket {\n    fill: rgba(0, 0, 0, 0.68);\n    stroke: rgba(255, 255, 255, 0.08);\n    stroke-width: 1;\n  }\n\n  .complication-socket-highlight {\n    fill: none;\n    stroke: rgba(255, 255, 255, 0.1);\n    stroke-width: 1.1;\n  }\n\n  .complication-shadow {\n    fill: rgba(0, 0, 0, 0.36);\n  }\n\n  .complication-face {\n    fill: url(\"#complicationFaceGradient\");\n    stroke: rgba(255, 255, 255, 0.62);\n    stroke-width: 1.1;\n    filter: url(\"#complicationInset\");\n  }\n\n  .complication-inner-shadow {\n    fill: none;\n    stroke: rgba(2, 8, 12, 0.24);\n    stroke-width: 5;\n  }\n\n  .complication-ring {\n    fill: none;\n    stroke-width: 1.15;\n    opacity: 0.76;\n  }\n\n  .complication-marker {\n    stroke-width: 1.2;\n    stroke-linecap: round;\n    opacity: 0.9;\n  }\n\n  .complication-title,\n  .complication-primary,\n  .complication-secondary {\n    text-anchor: middle;\n    dominant-baseline: middle;\n    letter-spacing: 0;\n  }\n\n  .complication-title {\n    fill: rgba(10, 20, 28, 0.8);\n    font-size: 7.8px;\n    font-weight: 820;\n    text-transform: uppercase;\n  }\n\n  .complication-primary {\n    font-size: 12.8px;\n    font-weight: 900;\n    paint-order: stroke;\n    stroke: rgba(239, 245, 246, 0.95);\n    stroke-width: 1px;\n  }\n\n  .complication-secondary {\n    fill: rgba(10, 20, 28, 0.68);\n    font-size: 8px;\n    font-weight: 720;\n  }\n\n  .emboss-shadow {\n    fill: rgba(255, 255, 255, 0.58);\n    stroke: none;\n  }\n\n  .place-complication .complication-primary,\n  .event-complication .complication-primary {\n    font-size: 10.4px;\n  }\n\n  .weather-complication .complication-primary {\n    font-size: 19px;\n    stroke-width: 0.7px;\n  }\n\n  .date-complication .complication-primary,\n  .season-complication .complication-primary {\n    font-size: 13.1px;\n  }\n\n  .clock-glass {\n    fill: url(\"#glassGradient\");\n    stroke: rgba(255, 255, 255, 0.12);\n    stroke-width: 1;\n    pointer-events: none;\n  }\n\n  .glass-sheen {\n    fill: none;\n    stroke: rgba(255, 255, 255, 0.16);\n    stroke-width: 7;\n    stroke-linecap: round;\n    opacity: 0.42;\n    pointer-events: none;\n  }\n", a = {
@@ -871,7 +868,7 @@ var S = {
 		return String(e).replaceAll("&", "&amp;").replaceAll("<", "&lt;").replaceAll(">", "&gt;").replaceAll("\"", "&quot;");
 	}
 };
-customElements.define("season-clock-card", E), window.customCards = window.customCards || [], window.customCards.push({
+customElements.get("season-clock-card") || customElements.define("season-clock-card", E), window.customCards = Array.isArray(window.customCards) ? window.customCards : [], window.customCards.some((e) => e?.type === "season-clock-card") || window.customCards.push({
 	type: "season-clock-card",
 	name: "Season Clock Card",
 	description: "A location-aware seasonal year clock for Home Assistant dashboards."

diff --git a/src/editor.js b/src/editor.js
@@ -8,7 +8,6 @@ const DISPLAY_OPTIONS = [
   "show_month_names",
   "show_month_markers",
   "show_day_ticks",
-  "show_icons",
   "show_moon_phase",
   "show_weather"
 ];
@@ -31,7 +30,6 @@ const EDITOR_DEFAULTS = {
   show_month_names: true,
   show_month_markers: true,
   show_day_ticks: true,
-  show_icons: true,
   show_moon_phase: true,
   show_weather: true
 };
@@ -171,7 +169,6 @@ export class SeasonClockCardEditor extends HTMLElement {
       show_month_names: "Month names",
       show_month_markers: "Month markers",
       show_day_ticks: "Day ticks",
-      show_icons: "Icons",
       show_moon_phase: "Moon phase",
       show_weather: "Weather",
       weather_entity: "Weather entity"
@@ -180,4 +177,6 @@ export class SeasonClockCardEditor extends HTMLElement {
   }
 }
 
-customElements.define("season-clock-card-editor", SeasonClockCardEditor);
+if (!customElements.get("season-clock-card-editor")) {
+  customElements.define("season-clock-card-editor", SeasonClockCardEditor);
+}

diff --git a/src/season-clock-card.js b/src/season-clock-card.js
@@ -688,11 +688,15 @@ class SeasonClockCard extends HTMLElement {
   }
 }
 
-customElements.define("season-clock-card", SeasonClockCard);
+if (!customElements.get("season-clock-card")) {
+  customElements.define("season-clock-card", SeasonClockCard);
+}
 
-window.customCards = window.customCards || [];
-window.customCards.push({
-  type: "season-clock-card",
-  name: "Season Clock Card",
-  description: "A location-aware seasonal year clock for Home Assistant dashboards."
-});
+window.customCards = Array.isArray(window.customCards) ? window.customCards : [];
+if (!window.customCards.some((card) => card?.type === "season-clock-card")) {
+  window.customCards.push({
+    type: "season-clock-card",
+    name: "Season Clock Card",
+    description: "A location-aware seasonal year clock for Home Assistant dashboards."
+  });
+}

diff --git a/README.md b/README.md
@@ -4,7 +4,7 @@
 
 # Season Clock Card
 
-Season Clock Card is a Home Assistant Lovelace card that shows a clean, location-aware seasonal year clock. It is designed to feel like a polished dashboard widget rather than an infographic.
+Season Clock Card is a Home Assistant Lovelace card that shows a premium, location-aware seasonal year clock. It is designed to feel like a physical smart wall clock for Home Assistant dashboards.
 
 <p align="center">
   <img src="https://raw.githubusercontent.com/axelfair/seasonclock/main/assets/preview.png" alt="Season Clock Card preview" width="500">
@@ -13,12 +13,14 @@ Season Clock Card is a Home Assistant Lovelace card that shows a clean, location
 ## Features
 
 - Circular seasonal year clock with spring, summer, autumn, and winter segments.
+- Premium glass-and-metal watch-face styling with recessed complications.
 - Fully configurable clock-face elements via YAML.
 - Location-aware Northern/Southern Hemisphere support.
 - Solstice and equinox markers.
 - Daily ticks and monthly markers.
 - Current moon phase icon calculated from the date.
-- Classic watch-style centre complications for date, season progress, next milestone, location, and weather.
+- Classic watch-style centre complications for date, season progress, next milestone, and weather.
+- Weather complication showing condition icon and current temperature from a weather entity.
 - Configurable card size and display options.
 - HACS custom dashboard repository ready.
 
@@ -45,10 +47,16 @@ https://github.com/axelfair/seasonclock
 
 HACS custom repository installation should point to the GitHub repo URL above.
 
-HACS installs the bundled card from the same filename used by earlier working releases:
+HACS installs the bundled card from the repository-name-matched dashboard plugin file:
 
 ```text
-season-clock-card.js
+seasonclock.js
+```
+
+After installing or upgrading through HACS, refresh Home Assistant frontend resources or clear the browser cache if the old card bundle is still being served. The expected HACS resource path is:
+
+```text
+/hacsfiles/seasonclock/seasonclock.js
 ```
 
 ### Manual Installation
@@ -56,13 +64,13 @@ season-clock-card.js
 Copy:
 
 ```text
-dist/season-clock-card.js
+dist/seasonclock.js
 ```
 
 to:
 
 ```text
-/config/www/community/season-clock-card/season-clock-card.js
+/config/www/community/season-clock-card/seasonclock.js
 ```
 
 Then add the Lovelace resource:
@@ -70,7 +78,7 @@ Then add the Lovelace resource:
 URL:
 
 ```text
-/local/community/season-clock-card/season-clock-card.js
+/local/community/season-clock-card/seasonclock.js
 ```
 
 Type:
@@ -109,7 +117,6 @@ show_equinox_labels: true
 show_month_names: true
 show_month_markers: true
 show_day_ticks: true
-show_icons: true
 show_moon_phase: true
 show_weather: true
 ```
@@ -122,7 +129,7 @@ show_weather: true
 | `title` | string | empty | Optional card title shown above the clock. |
 | `location_source` | string | `home` | `home`, `entity`, or `manual`. |
 | `location_entity` | string | empty | Entity with `latitude` and `longitude` attributes when `location_source: entity`. |
-| `weather_entity` | string | empty | Weather entity used to show current weather, temperature, and high/low when available. |
+| `weather_entity` | string | empty | Weather entity used to show a condition icon and current temperature when available. |
 | `location_name` | string | empty | Optional label override shown when `show_location` is enabled. |
 | `latitude` | number | empty | Manual latitude when `location_source: manual`. |
 | `longitude` | number | empty | Manual longitude when `location_source: manual`. |
@@ -130,16 +137,15 @@ show_weather: true
 | `card_size` | number | `500` | Clock size in pixels. |
 | `show_date` | boolean | `true` | Shows weekday and date. |
 | `show_day_number` | boolean | `true` | Shows day-of-year. |
-| `show_season_name` | boolean | `true` | Shows season labels and centre season. |
+| `show_season_name` | boolean | `true` | Shows the season progress complication. |
 | `show_location` | boolean | `true` | Shows hemisphere and location. |
 | `show_solstice_labels` | boolean | `true` | Shows solstice markers and labels. |
 | `show_equinox_labels` | boolean | `true` | Shows equinox markers and labels. |
 | `show_month_names` | boolean | `true` | Shows curved month names embedded into the season ring. |
 | `show_month_markers` | boolean | `true` | Shows longer monthly tick marks. |
 | `show_day_ticks` | boolean | `true` | Shows subtle daily tick marks. |
-| `show_icons` | boolean | `true` | Shows compact seasonal icons. |
 | `show_moon_phase` | boolean | `true` | Shows a calculated moon phase icon at the tip of the clock hand. |
-| `show_weather` | boolean | `true` | Shows weather from `weather_entity` when configured. |
+| `show_weather` | boolean | `true` | Shows weather icon and current temperature from `weather_entity` when configured. |
 
 ## Location and Hemisphere Detection
 
@@ -174,7 +180,7 @@ npm run build
 Confirm the built card exists at:
 
 ```text
-dist/season-clock-card.js
+dist/seasonclock.js
 ```
 
 ## Support

diff --git a/info.md b/info.md
@@ -2,9 +2,9 @@
 
 ![Season Clock Card preview](https://raw.githubusercontent.com/axelfair/seasonclock/main/assets/preview.png)
 
-Season Clock Card is a polished Home Assistant Lovelace card that shows a circular, location-aware seasonal year clock for your dashboard.
+Season Clock Card is a polished Home Assistant Lovelace card that shows a premium, location-aware seasonal year clock for your dashboard.
 
-It includes compact solstice/equinox markers, daily and monthly tick marks, optional weather readout, configurable clock-face elements, and Northern/Southern Hemisphere support based on Home Assistant home location, a selected entity, manual coordinates, or explicit hemisphere selection.
+It includes compact solstice/equinox markers, daily and monthly tick marks, a moon phase hand badge, weather icon and temperature complication, configurable clock-face elements, and Northern/Southern Hemisphere support based on Home Assistant home location, a selected entity, manual coordinates, or explicit hemisphere selection.
 
 <p align="center">
   <a href="https://buymeacoffee.com/axelfair">
@@ -12,7 +12,7 @@ It includes compact solstice/equinox markers, daily and monthly tick marks, opti
   </a>
 </p>
 
-The design is intentionally dashboard-focused: dark, compact, readable, and suitable for Home Assistant wall panels or overview pages.
+The design is intentionally dashboard-focused: dark, glassy, readable, and suitable for Home Assistant wall panels or overview pages.
 
 If you enjoy Season Clock Card and want to support future development, you can buy me a coffee:
 
